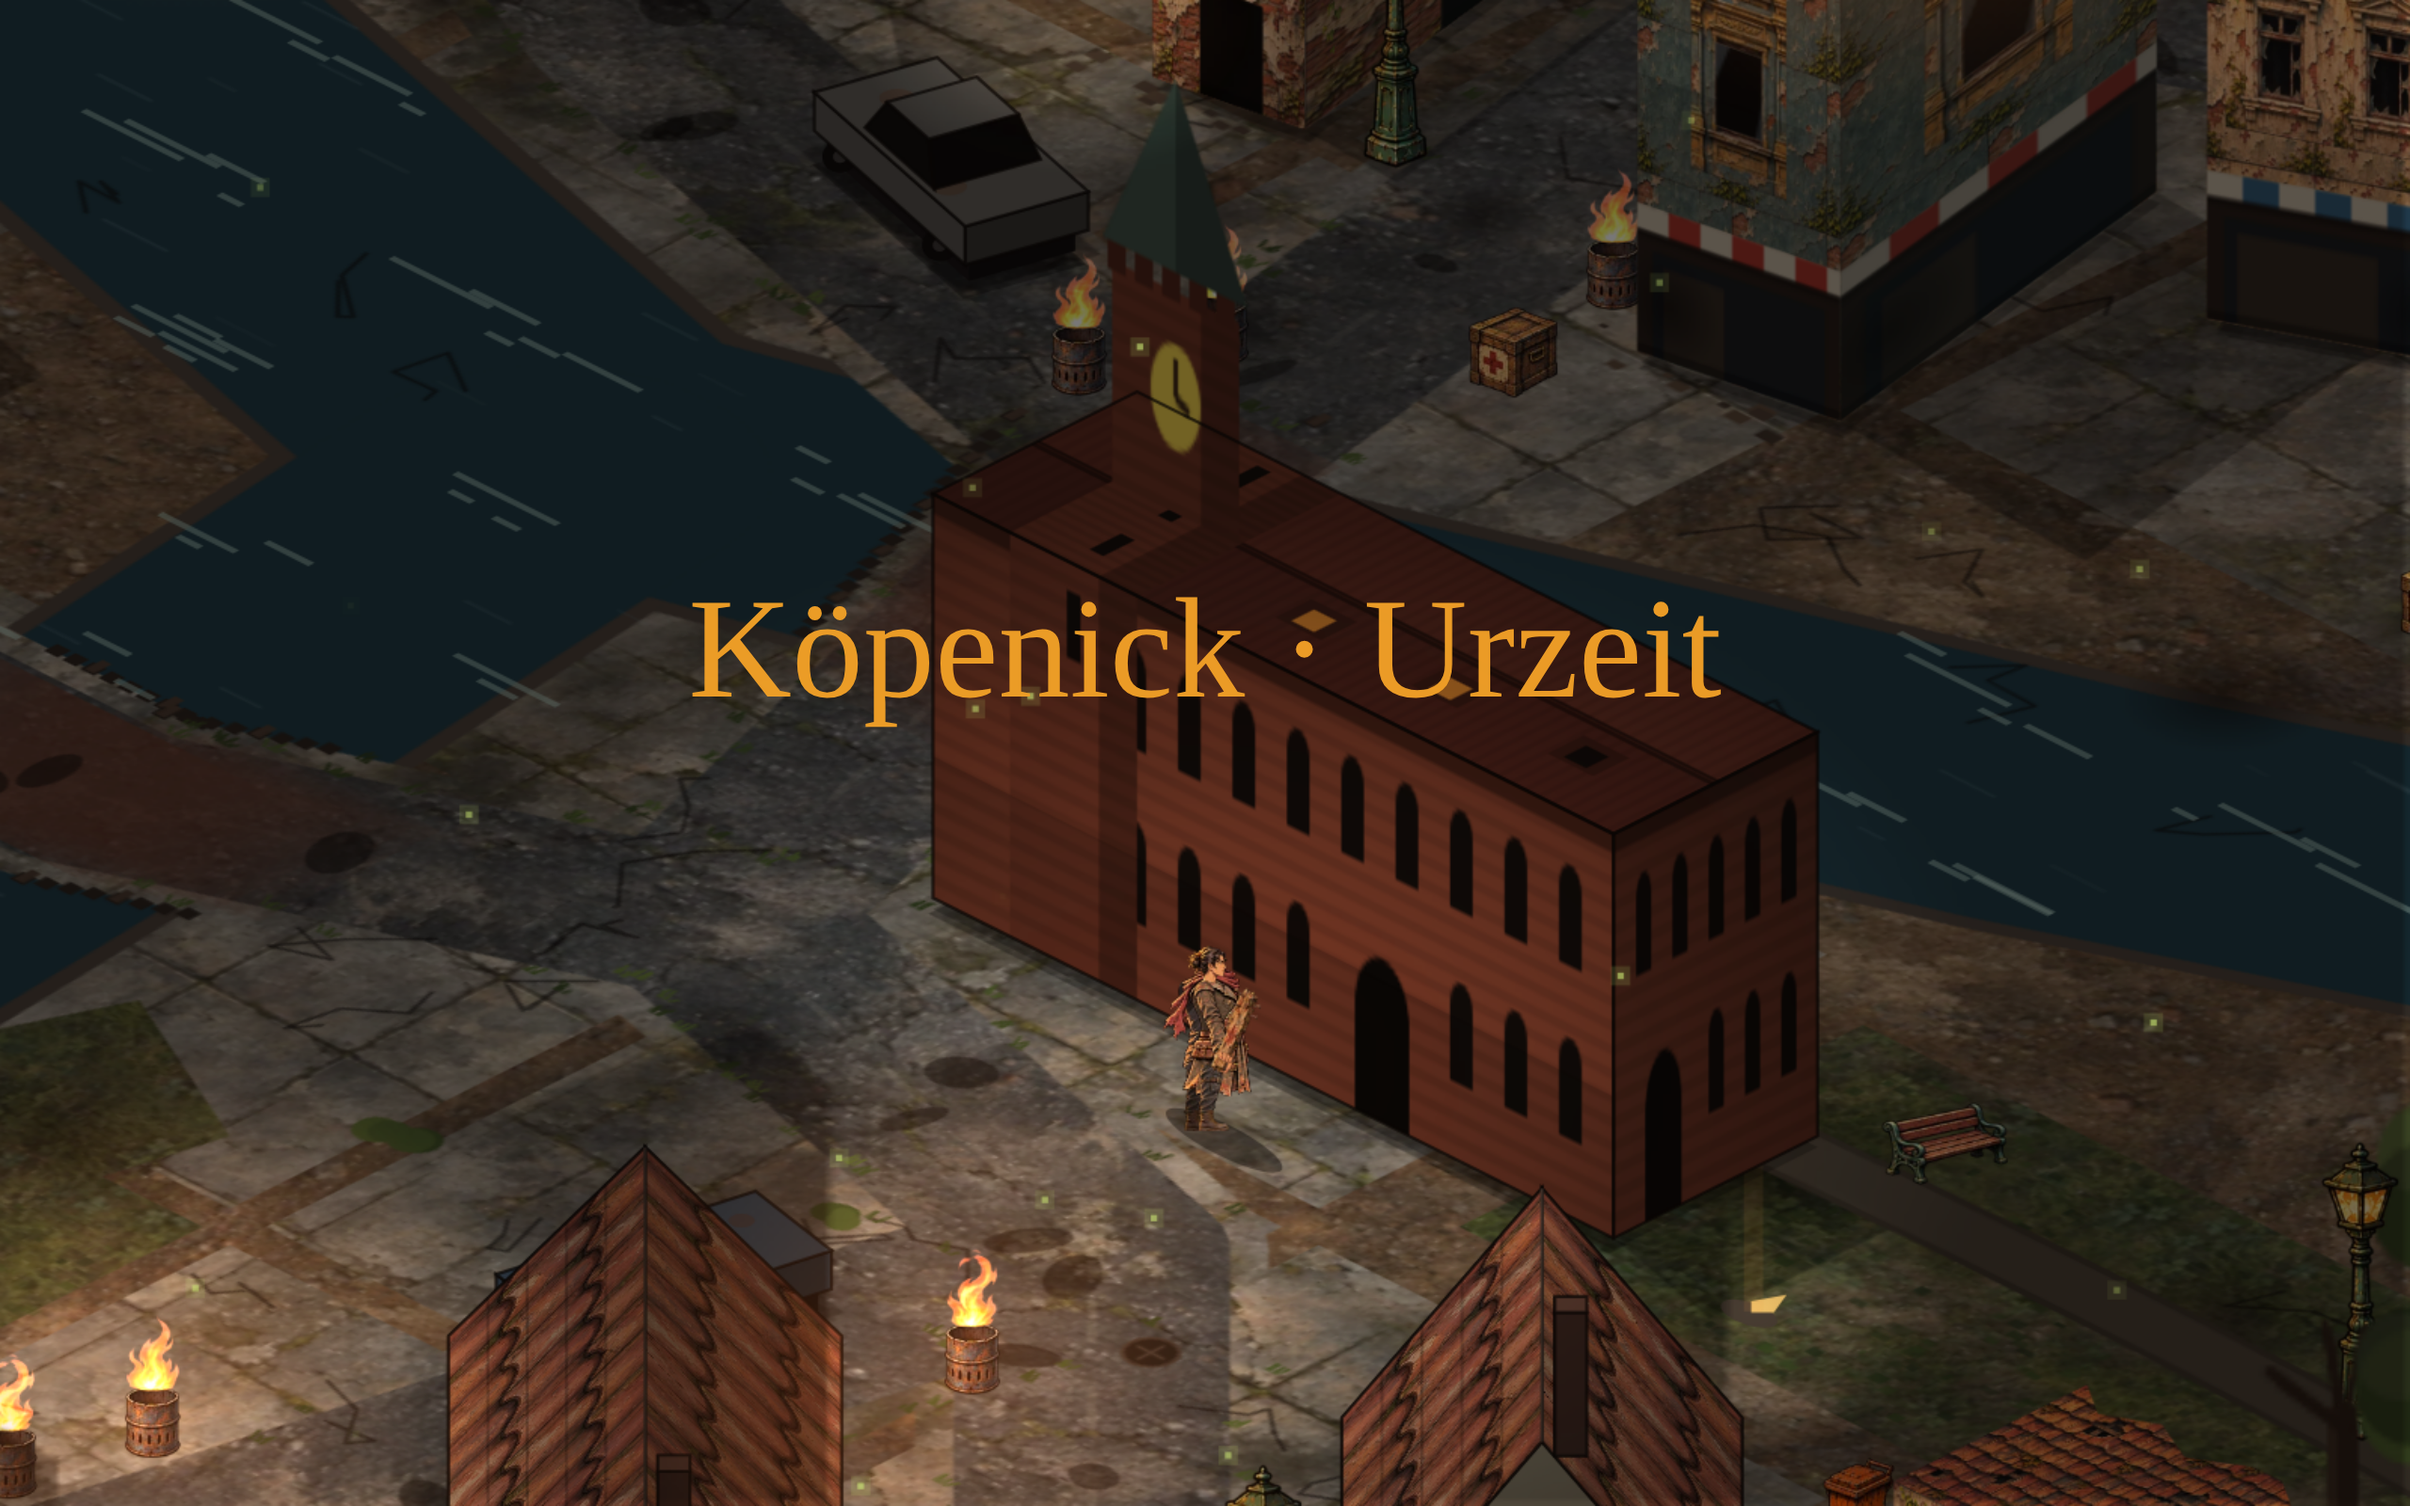
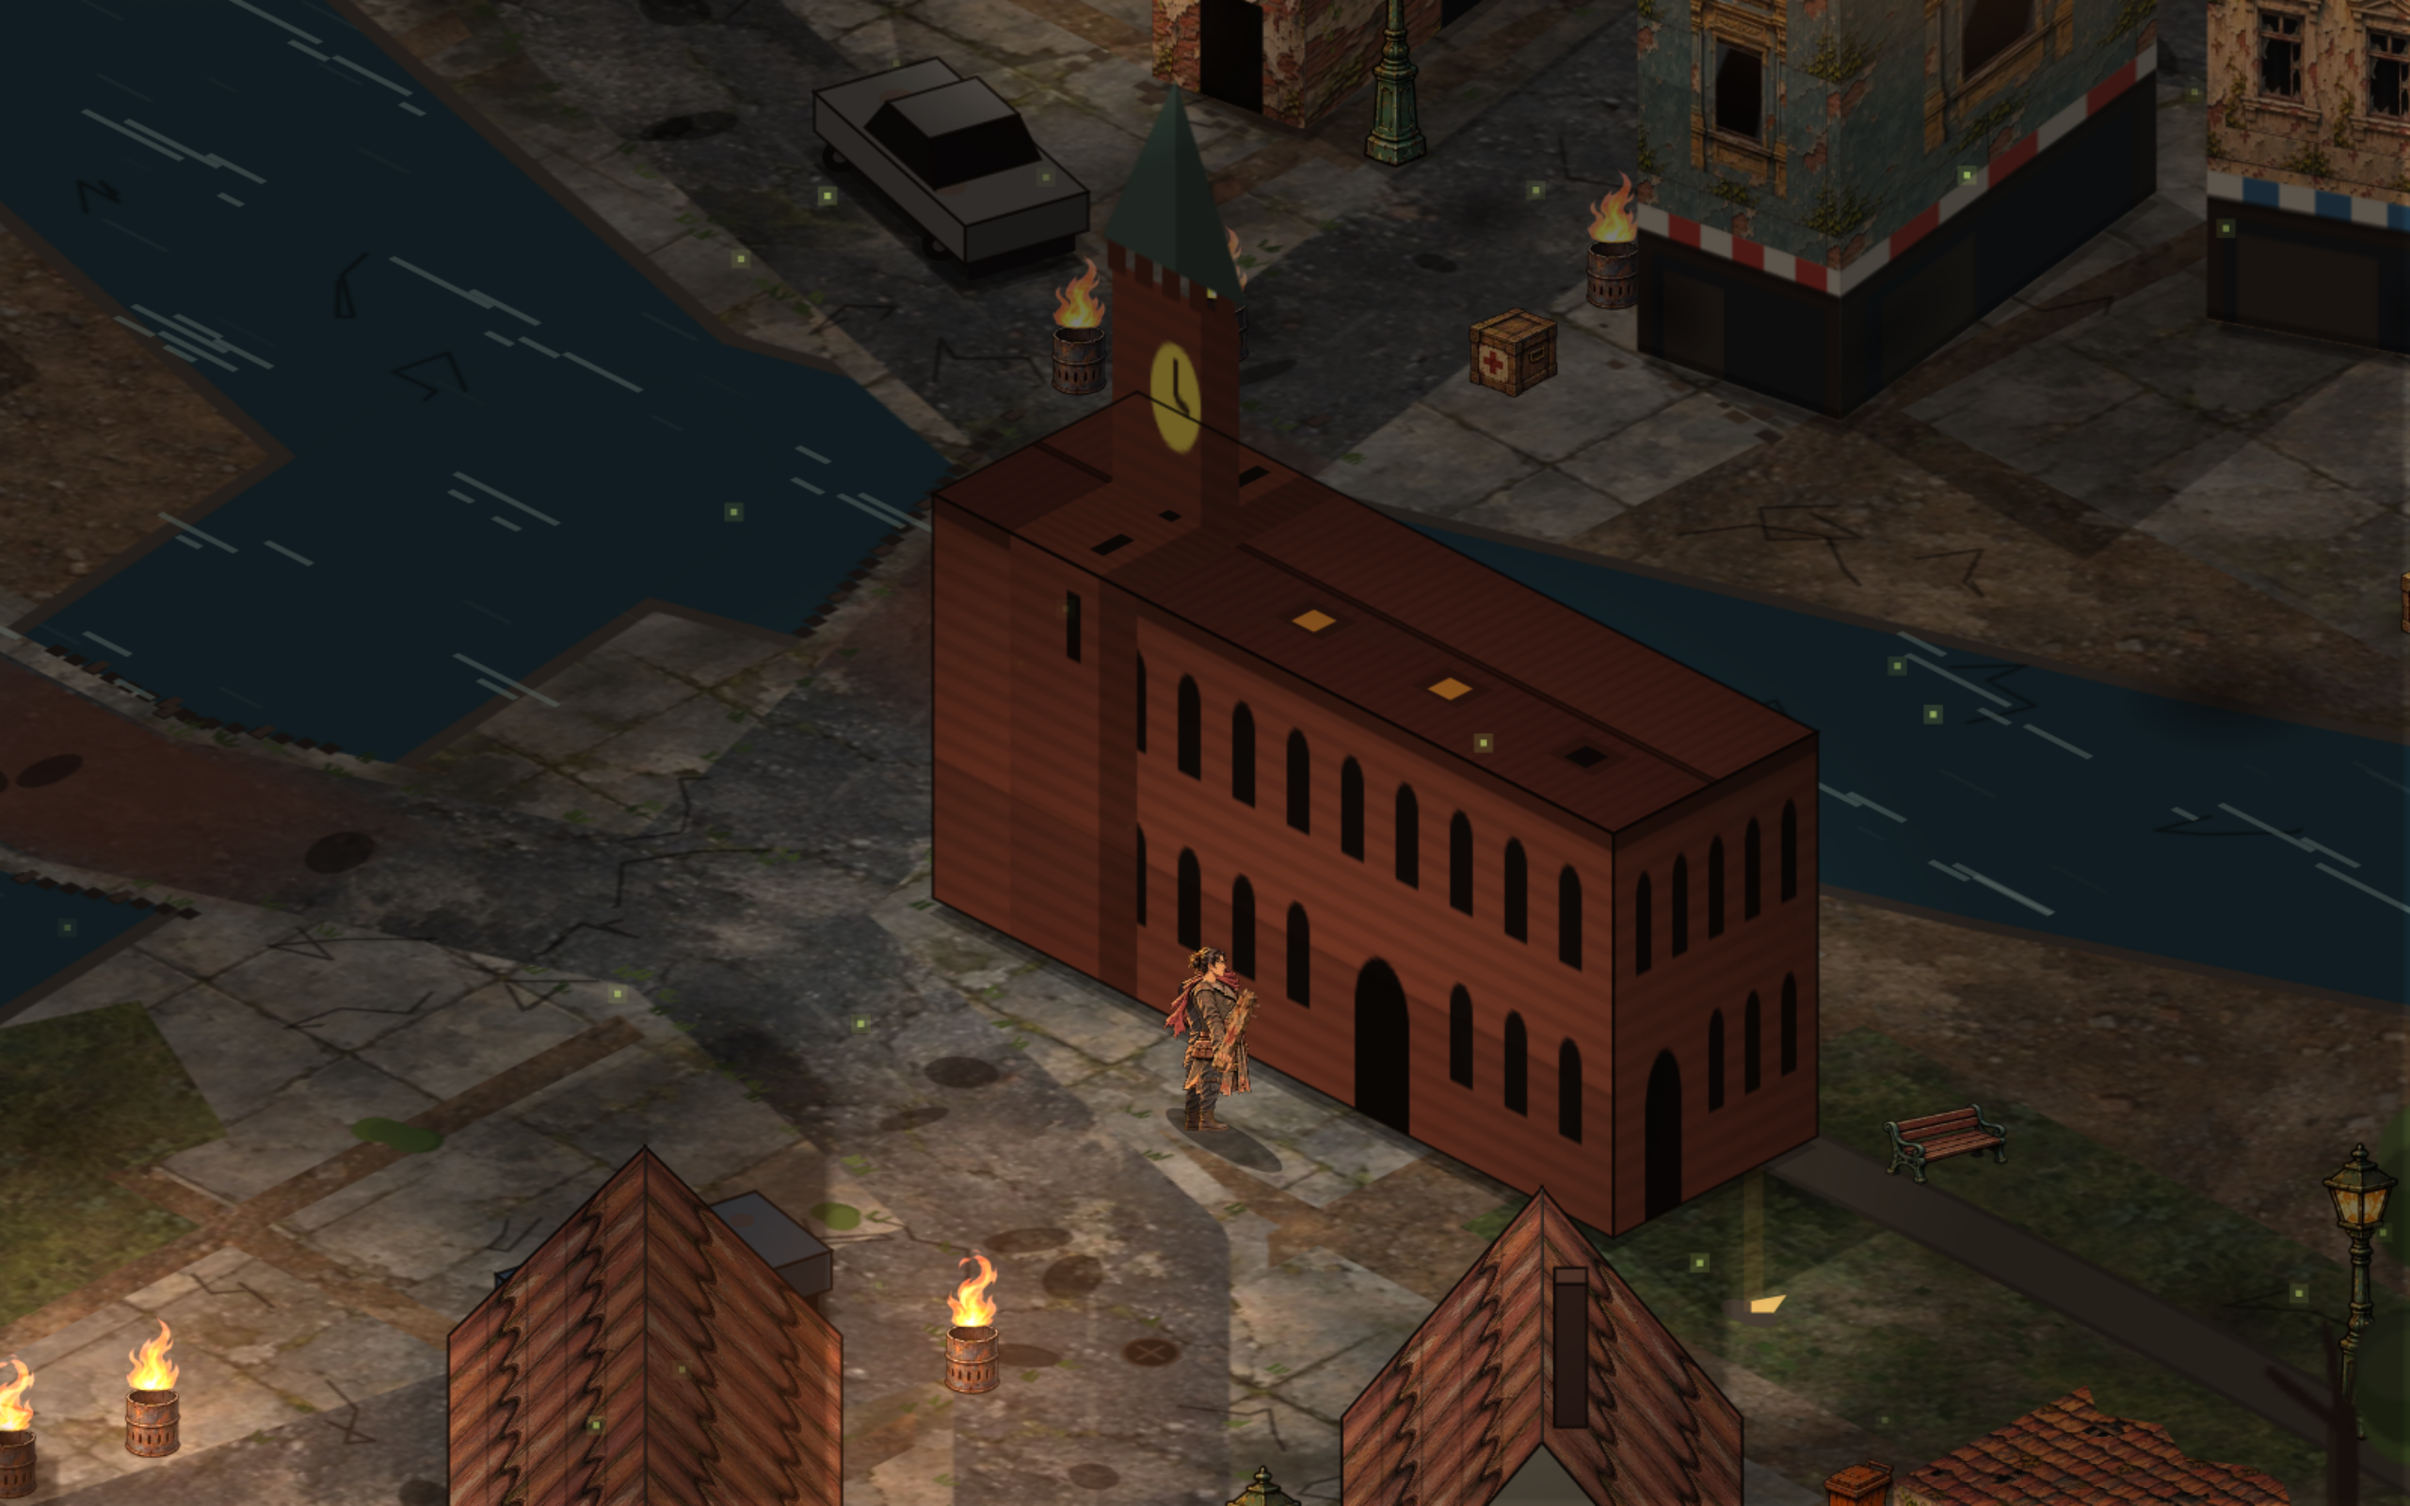
Record Köpenick coverage and clean final visual proof

diff --git a/docs/texture-coverage.md b/docs/texture-coverage.md
@@ -27,3 +27,9 @@ Seed 231113. Counts below are **structural objects/parts with h >20 and H >40**,
 Next asset work: audit the visible custom ground overlays and named architecture per district, then add missing art/hooks without replacing the existing shared kits. Task `pipeline/tasks/17-global-building-coverage.md` and landmark task `08-landmarks.md` remain open. Ground variation is delivered; custom-surface coverage remains. No new terrain or building art was created during the loot-visibility change.
 
 Evidence: `pipeline/proof/19-visible-loot-safe-exit/results.json`. Tablet performance remains accepted; this is a coverage audit, not a performance gate.
+
+## Köpenick completion — v0.94
+
+The actual Köpenick map contains one named building (Rathaus), one working station stairwell and three named river crossings. Their active paths are now covered: Gothic Rathaus facade/roof/clock tower with fish-and-key emblems; tiled station parapets and forecourt; painted bridge deck and stone/iron parapets; Rathausplatz, paving/asphalt, park paths, and painted Spree/Dahme/Müggelsee water. Existing water movement is made more visible. Shared four-variant nature/soil surfaces and existing ordinary-building art remain.
+
+No Schloss building, railway station hall or dinosaur park building exists in this map definition; map labels and reserved land are not missing runtime buildings. No new landmark or gameplay is invented. Trees/nature remain task 04. Other districts' custom architecture and surfaces remain open; Xhain is next in map order. Sources, 64px comparison and proof: `assets/raw/codex/21-koepenick-completion/`, `pipeline/proof/22-koepenick-completion/`.
